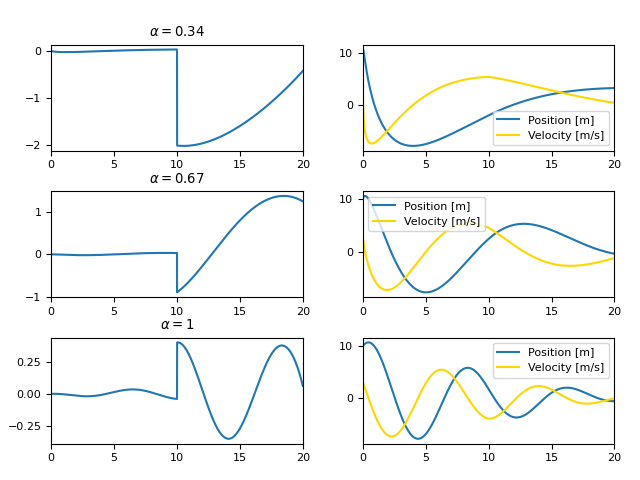
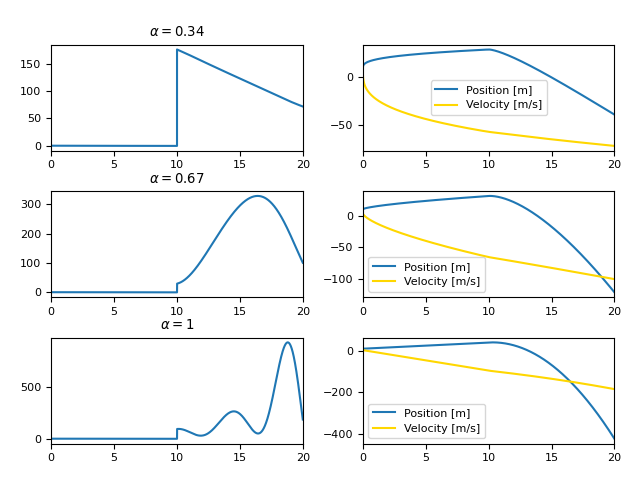
Add delay to state equation

diff --git a/oscillator_with_delay.py b/oscillator_with_delay.py
@@ -15,6 +15,7 @@ delta = 0.1
 A = np.matrix([[0, 1], [-omega ** 2, -2 * delta * omega]])
 B = np.c_[[0, 1]]
 Q = 0.001 * np.identity(2)
+# Q = np.identity(2)
 tf = 20
 dt = 0.001
 ts = np.arange(0, tf + dt, dt)
@@ -33,8 +34,10 @@ fig.tight_layout(rect=(0, 0, 1, 0.95), pad=1.5)
 for axis, alpha in zip(axes, alphas):
     # S is an empty array of matrices
     # with last element given by Sf
-    S = np.empty((ts.size, 2, 2))
-    S[-1] = Sf
+    S = np.empty((ts.size + delay, 2, 2))
+    S[ts.size - 1] = Sf
+    for i in range(ts.size, ts.size + delay):
+        S[i] = np.identity(2)
     for i in range(0, delay):
         S[i] = -(dt * i) ** alpha / alpha * Q
 
@@ -42,7 +45,7 @@ for axis, alpha in zip(axes, alphas):
     # this solves the Ricatti equation for t >= t_0 + h
     for i in range(ts.size - 1, delay, -1):
         dSdt = -(dt * (i + 1)) ** (alpha - 1) * \
-            (A.T @ S[i - delay] + S[i - delay] @ A - S[i] @ B @ B.T @ S[i] + Q)
+            (A.T @ S[i] + S[i] @ A - S[i] @ B @ B.T @ S[i - delay] + Q)
         S[i - 1] = S[i] - dt * dSdt
     # I now basically have initial conditions, so
     # I could theoretically go forward and solve,
@@ -54,27 +57,36 @@ for axis, alpha in zip(axes, alphas):
     #     S[i + 1] = S[i] + dt * dSdt
 
     # x is an array of column vectors
-    x = np.empty((ts.size, 2, 1))
+    x = np.empty((ts.size + delay, 2, 1))
     x[0] = np.c_[[10, 3]]
     # u is an array of real #s
-    u = np.empty(ts.size)
+    u = np.empty(ts.size + delay)
+    # this tries to solve homogeneous equation for t < 0
+    # the problem is that the conformable derivative is
+    # not defined for values of t < 0
+    # for i in range(-1, -delay - 1, -1):
+    #     x[i] = x[i + 1] - (dt * (i + 1)) ** (alpha - 1) * dt * A @ x[i + 1]
+    #     u[i] = -(B.T @ S[i] @ x[i]).item()
+    for i in range(ts.size, ts.size + delay):
+        x[i] = np.c_[[10, 3]]
+        u[i] = -(B.T @ S[i] @ x[i]).item()
 
     # loop forward and solve state space equation
     # this also uses Euler's method as far as I can tell
     for i in range(0, ts.size - 1):
         u[i] = -(B.T @ S[i] @ x[i]).item()
         x[i + 1] = x[i] + (dt * (i + 2)) ** (alpha - 1) * \
-            dt * (A @ x[i] + B * u[i])
-    u[-1] = -(B.T @ S[-1] @ x[-1]).item()
+            dt * (A @ x[i - delay] + B * u[i - delay])
+    u[ts.size - 1] = -(B.T @ S[ts.size - 1] @ x[ts.size - 1]).item()
 
     # plot u (1st column)
-    axis[0].plot(ts, u)
+    axis[0].plot(ts, u[0:ts.size])
     axis[0].set_title(f'$\\alpha = {alpha}$')
     axis[0].margins(x=0)
 
     # plot x1 and x2 (2nd column)
-    axis[1].plot(ts, x[:, 0], label='Position [m]')
-    axis[1].plot(ts, x[:, 1], label='Velocity [m/s]', color='gold')
+    axis[1].plot(ts, x[:ts.size, 0], label='Position [m]')
+    axis[1].plot(ts, x[:ts.size, 1], label='Velocity [m/s]', color='gold')
     axis[1].legend()
     axis[1].margins(x=0)
 
